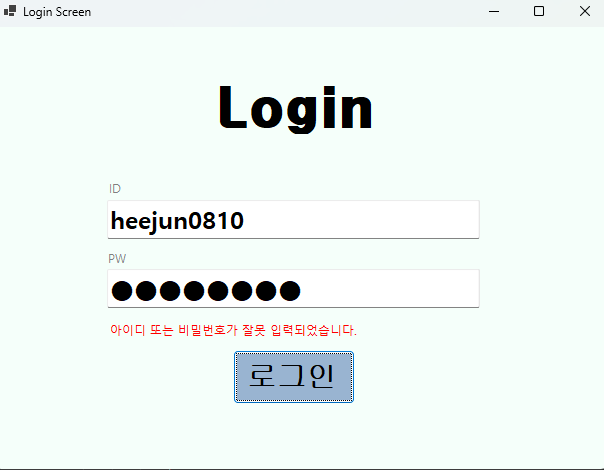
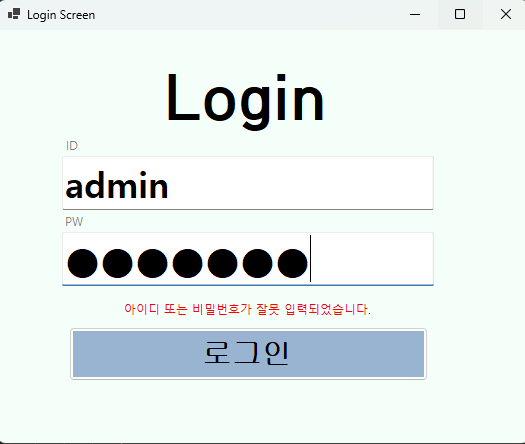
과제 전반 수정 및 README 작성
과제1 enter 입력시 이벤트 추가.

리드미 수정 과제 3 내용 과제 1로 옮김.
이미지파일 일부 수

diff --git a/Form1.Designer.cs b/Form1.Designer.cs
@@ -40,50 +40,50 @@
             // lblAppName
             // 
             lblAppName.AutoSize = true;
-            lblAppName.BackColor = Color.WhiteSmoke;
-            lblAppName.BorderStyle = BorderStyle.FixedSingle;
-            lblAppName.Font = new Font("함초롬돋움", 35.9999962F, FontStyle.Bold | FontStyle.Italic, GraphicsUnit.Point, 129);
-            lblAppName.Location = new Point(-1, -4);
+            lblAppName.BackColor = Color.MintCream;
+            lblAppName.Font = new Font("함초롬돋움", 48F, FontStyle.Bold, GraphicsUnit.Point, 129);
+            lblAppName.Location = new Point(152, 22);
             lblAppName.Name = "lblAppName";
-            lblAppName.Size = new Size(587, 64);
+            lblAppName.Size = new Size(199, 83);
             lblAppName.TabIndex = 0;
-            lblAppName.Text = "    Login                           ";
+            lblAppName.Text = "Login";
             lblAppName.Click += lblLogin_Click;
             // 
             // txtID
             // 
-            txtID.Font = new Font("맑은 고딕", 18F, FontStyle.Bold);
-            txtID.ForeColor = SystemColors.ScrollBar;
-            txtID.Location = new Point(69, 126);
+            txtID.Font = new Font("맑은 고딕", 26.25F, FontStyle.Bold);
+            txtID.ForeColor = Color.Silver;
+            txtID.Location = new Point(64, 126);
             txtID.Name = "txtID";
-            txtID.Size = new Size(372, 39);
-            txtID.TabIndex = 1;
+            txtID.Size = new Size(372, 54);
+            txtID.TabIndex = 2;
             txtID.Text = "아이디";
             txtID.TextChanged += textBox1_TextChanged;
             txtID.Enter += txtID_Enter;
+            txtID.KeyDown += txtID_KeyDown;
             txtID.Leave += txtID_Leave;
             // 
             // txtPW
             // 
-            txtPW.Font = new Font("맑은 고딕", 18F, FontStyle.Bold);
-            txtPW.ForeColor = SystemColors.ScrollBar;
-            txtPW.Location = new Point(70, 196);
+            txtPW.Font = new Font("맑은 고딕", 26.25F, FontStyle.Bold);
+            txtPW.ForeColor = Color.Silver;
+            txtPW.Location = new Point(64, 202);
             txtPW.Name = "txtPW";
-            txtPW.Size = new Size(372, 39);
-            txtPW.TabIndex = 2;
-            txtPW.Text = "비밀번호";
-            
+            txtPW.Size = new Size(372, 54);
+            txtPW.TabIndex = 3;
+            txtPW.Text = "패스워드";
             txtPW.Enter += txtPW_Enter;
+            txtPW.KeyDown += txtPW_KeyDown;
             txtPW.Leave += txtPW_Leave;
             // 
             // btnLogin
             // 
             btnLogin.BackColor = SystemColors.ActiveCaption;
             btnLogin.Font = new Font("굴림", 21.75F, FontStyle.Bold, GraphicsUnit.Point, 129);
-            btnLogin.Location = new Point(73, 282);
+            btnLogin.Location = new Point(71, 297);
             btnLogin.Name = "btnLogin";
             btnLogin.Size = new Size(359, 54);
-            btnLogin.TabIndex = 3;
+            btnLogin.TabIndex = 1;
             btnLogin.Text = "로그인";
             btnLogin.UseVisualStyleBackColor = false;
             btnLogin.Click += btnLogin_Click;
@@ -92,7 +92,7 @@
             // 
             lblErrorMsg.AutoSize = true;
             lblErrorMsg.ForeColor = Color.Red;
-            lblErrorMsg.Location = new Point(72, 253);
+            lblErrorMsg.Location = new Point(123, 272);
             lblErrorMsg.Name = "lblErrorMsg";
             lblErrorMsg.Size = new Size(254, 15);
             lblErrorMsg.TabIndex = 4;
@@ -103,7 +103,7 @@
             // 
             lblID.AutoSize = true;
             lblID.ForeColor = Color.Gray;
-            lblID.Location = new Point(69, 108);
+            lblID.Location = new Point(65, 108);
             lblID.Name = "lblID";
             lblID.Size = new Size(19, 15);
             lblID.TabIndex = 5;
@@ -114,7 +114,7 @@
             // 
             lblPW.AutoSize = true;
             lblPW.ForeColor = Color.Gray;
-            lblPW.Location = new Point(68, 178);
+            lblPW.Location = new Point(64, 184);
             lblPW.Name = "lblPW";
             lblPW.Size = new Size(25, 15);
             lblPW.TabIndex = 6;
@@ -126,7 +126,7 @@
             AutoScaleDimensions = new SizeF(7F, 15F);
             AutoScaleMode = AutoScaleMode.Font;
             BackColor = Color.MintCream;
-            ClientSize = new Size(534, 413);
+            ClientSize = new Size(531, 413);
             Controls.Add(lblPW);
             Controls.Add(lblID);
             Controls.Add(lblErrorMsg);
@@ -137,7 +137,6 @@
             ForeColor = SystemColors.ControlText;
             Name = "MainForm";
             Text = "Login Screen";
-            
             ResumeLayout(false);
             PerformLayout();
         }

diff --git a/Properties/Resources.Designer.cs b/Properties/Resources.Designer.cs
@@ -1,0 +1,63 @@
+//------------------------------------------------------------------------------
+// <auto-generated>
+//     이 코드는 도구를 사용하여 생성되었습니다.
+//     런타임 버전:4.0.30319.42000
+//
+//     파일 내용을 변경하면 잘못된 동작이 발생할 수 있으며, 코드를 다시 생성하면
+//     이러한 변경 내용이 손실됩니다.
+// </auto-generated>
+//------------------------------------------------------------------------------
+
+namespace LoginScreen.Properties {
+    using System;
+    
+    
+    /// <summary>
+    ///   지역화된 문자열 등을 찾기 위한 강력한 형식의 리소스 클래스입니다.
+    /// </summary>
+    // 이 클래스는 ResGen 또는 Visual Studio와 같은 도구를 통해 StronglyTypedResourceBuilder
+    // 클래스에서 자동으로 생성되었습니다.
+    // 멤버를 추가하거나 제거하려면 .ResX 파일을 편집한 다음 /str 옵션을 사용하여 ResGen을
+    // 다시 실행하거나 VS 프로젝트를 다시 빌드하십시오.
+    [global::System.CodeDom.Compiler.GeneratedCodeAttribute("System.Resources.Tools.StronglyTypedResourceBuilder", "18.0.0.0")]
+    [global::System.Diagnostics.DebuggerNonUserCodeAttribute()]
+    [global::System.Runtime.CompilerServices.CompilerGeneratedAttribute()]
+    internal class Resources {
+        
+        private static global::System.Resources.ResourceManager resourceMan;
+        
+        private static global::System.Globalization.CultureInfo resourceCulture;
+        
+        [global::System.Diagnostics.CodeAnalysis.SuppressMessageAttribute("Microsoft.Performance", "CA1811:AvoidUncalledPrivateCode")]
+        internal Resources() {
+        }
+        
+        /// <summary>
+        ///   이 클래스에서 사용하는 캐시된 ResourceManager 인스턴스를 반환합니다.
+        /// </summary>
+        [global::System.ComponentModel.EditorBrowsableAttribute(global::System.ComponentModel.EditorBrowsableState.Advanced)]
+        internal static global::System.Resources.ResourceManager ResourceManager {
+            get {
+                if (object.ReferenceEquals(resourceMan, null)) {
+                    global::System.Resources.ResourceManager temp = new global::System.Resources.ResourceManager("LoginScreen.Properties.Resources", typeof(Resources).Assembly);
+                    resourceMan = temp;
+                }
+                return resourceMan;
+            }
+        }
+        
+        /// <summary>
+        ///   이 강력한 형식의 리소스 클래스를 사용하여 모든 리소스 조회에 대해 현재 스레드의 CurrentUICulture 속성을
+        ///   재정의합니다.
+        /// </summary>
+        [global::System.ComponentModel.EditorBrowsableAttribute(global::System.ComponentModel.EditorBrowsableState.Advanced)]
+        internal static global::System.Globalization.CultureInfo Culture {
+            get {
+                return resourceCulture;
+            }
+            set {
+                resourceCulture = value;
+            }
+        }
+    }
+}

diff --git a/Form1.cs b/Form1.cs
@@ -38,7 +38,7 @@ namespace LoginScreen
 
         private void txtPW_Enter(object sender, EventArgs e)
         {
-            if (txtPW.Text == "비밀번호")
+            if (txtPW.Text == "패스워드")
             {
                 txtPW.Text = "";
                 txtPW.ForeColor = Color.Black;
@@ -52,13 +52,13 @@ namespace LoginScreen
             if (string.IsNullOrWhiteSpace(txtPW.Text))
             {
                 txtPW.UseSystemPasswordChar = false;
-                txtPW.Text = "비밀번호";
+                txtPW.Text = "패스워드";
                 txtPW.ForeColor = Color.Silver;
             }
         }
 
-        string myID = "heejun0810";
-        string myPW = "22017004@";
+        string myID = "admin";
+        string myPW = "superman";
         private void btnLogin_Click(object sender, EventArgs e)
         {
             string inputID = txtID.Text;
@@ -82,6 +82,24 @@ namespace LoginScreen
         private void lblID_Click(object sender, EventArgs e)
         {
 
+        }
+
+        private void txtID_KeyDown(object sender, KeyEventArgs e)
+        {
+            if (e.KeyCode == Keys.Enter)
+            {
+                e.SuppressKeyPress = true; // 기본 비프음 방지
+                txtPW.Focus(); // 패스워드 입력창이 포커스를 갖게끔
+            }
+        }
+
+        private void txtPW_KeyDown(object sender, KeyEventArgs e)
+        {
+            if (e.KeyCode == Keys.Enter)
+            {
+                e.SuppressKeyPress = true; // 기본 비프음 방지
+                btnLogin.PerformClick(); // 버튼이 눌린 것처럼 만들기
+            }
         }
     }
 }

diff --git a/README.md b/README.md
@@ -1,0 +1,93 @@
+# # (C# 코딩 5주차) 로그인 화면 (Login Screen) 구현
+***-- 22017004 컴퓨터 SW 강희준 --***
+
+## 📑 개요: C# 프로그래밍 학습
+한줄 소개 :* :
+조건문과 이벤트 핸들링을 활용한 사용자 인증 시스템 및 UX 최적화 실습
+
+### 🛠 사용한 플랫폼
+- **Language & Framework:** C#, .NET Windows Forms
+- **IDE:** Visual Studio 2022
+- **Version Control:** GitHub
+
+### 🏗 사용한 컨트롤
+- **입력 및 출력:** Label(제목 및 에러 메시지), TextBox(아이디/패스워드 입력)
+- **상호작용:** Button(로그인 실행)
+
+### 💻 사용한 기술 및 개념 
+- **비교 연산자(Comparison Operators):** `==` 연산자를 사용하여 사용자가 입력한 `inputID`, `inputPW` 변수와 프로그램에 미리 정의된 고유 계정 정보(`myID`, `myPW`)가 일치하는지 판별하는 로직을 구축.
+
+- **논리 연산자(Logical Operators):** `&&` (AND) 연산자를 활용하여 아이디와 비밀번호라는 두 가지 독립적인 데이터가 모두 일치(`true`)할 때만 접근을 허용하는 다중 조건 검증 프로세스 설계.
+
+- **제어문(Control Statements):** `if~else` 문을 통해 인증 성공 시에는 환영 메시지를, 실패 시에는 에러 라벨을 표시하는 프로그램의 분기 흐름을 설계함.
+
+- **이벤트 기반 프로그래밍(Event-Driven):** `Enter`, `Leave` 이벤트를 통한 텍스트박스 플레이스홀더 구현 및 `KeyDown` 이벤트를 이용한 키보드 인터랙션 제어 기술을 습득함.
+
+---
+
+## 📸 과제 1: 기본 UI 배치 및 인증 기능 구현
+
+| ![과제1 실행화면](img/1-1.png) | ![과제1 실행화면](img/1-2.png) |
+|![과제1 실행화면](img/1-3.png)| ![과제1 실행화면](img/1-4.png) |
+
+**✅ 과제 내용**
+- 로그인 화면 구성을 위한 주요 컨트롤(Label, TextBox, Button) 배치 및 디자인
+- `if` 조건문과 논리 연산자를 이용한 아이디/비밀번호 일치 확인 로직 구현 
+- 마우스 없이 키보드만으로 로그인이 가능하도록 엔터(Enter) 키 이벤트 핸들링 적용
+- 포커스 이동(`Focus`) 및 버튼 강제 클릭(`PerformClick`) 구현
+
+**💡 상세 구현 내용**
+- `MainForm`에 `lblAppName`, `txtID`, `txtPW`, `btnLogin` 등을 배치하고 폼의 `BackColor`를 `Silver`으로 설정. 
+
+- `txtPW`는 초기 보안을 위해`UseSystemPasswordChar` 속성을 제어하게 함. 
+
+- 사용자가 로그인 버튼을 클릭하면 TextBox의 문자열을 변수에 할당하고, 이를 `myID`, `myPW` 상수 대조시켜 만듦.
+
+- 인증 성공 시 `MessageBox.Show`로 성공 메시지를 띄우고, 실패 시에는 에러 메세지박스를 보이도록 설정.
+
+- `txtID`와 `txtPW`의 `KeyDown` 이벤트에서 엔터키 입력을 감지하여 로그인 버튼의 `PerformClick()` 메서드를 호출, 키보드만으로도 로그인 프로세스가 원활히 진행되도록 구현.
+
+**🔬 분석 및 학습 포인트**
+- `txtID.Text` 속성을 통해 폼으로부터 데이터를 추출하고 이를 문자열 변수로 처리하는 과정을 수행함.
+---
+
+## 📸 과제 2: 가시성(Visible) 속성을 활용한 에러 표시
+
+| ![과제2-1](img/2-1.png) | ![과제2-2](img/2-2.png) |
+|:---:|:---:|
+
+**✅ 과제 내용**
+- 흐름을 끊는 메시지 박스 대신 화면 내 전용 라벨(`lblErrorMsg`)을 통한 에러 피드백 구현
+	
+- 상황에 따른 컨트롤의 `Visible` 속성 제어하여 상황에 맞는 알림 전달
+
+**💡 상세 구현 내용**
+- 인증 실패 시 시각적 경고를 주기 위해 빨간색 글씨의 `lblErrorMsg`를 배치.
+
+- 폼 로드 시에는 보이지 않도록 설정한 후, `btnLogin_Click` 이벤트 내에서 인증 실패(`else` 구문) 시 `lblErrorMsg.Visible = true;` 코드가 실행되도록 구현. 
+
+- 반대로 성공 시에는 라벨을 다시 숨겨 원래상태로 복구.
+
+**🔬 분석 및 학습 포인트**
+- `MessageBox`와 달리 `Visible` 속성 제어는 사용자가 추가적인 확인 클릭을 할 필요가 없어 서비스 연속성을 배움. 
+
+- 속성값 하나를 코드로 제어함으로써 사용자 인터페이스가 어떻게 동적으로 반응하는지 깊이 있게 학습하였습니다.
+
+---
+
+## 📸 과제 3: UX 개선 
+
+| ![과제3-1](img/3-1.png) | ![과제3-2](img/3-2.png) |
+|:---:|:---:|
+
+**✅ 과제 내용**
+
+
+**💡 상세 구현 내용**
+
+
+**🔬 분석 및 학습 포인트**
+
+---
+
+## 💡 실습 소감 및 분석
